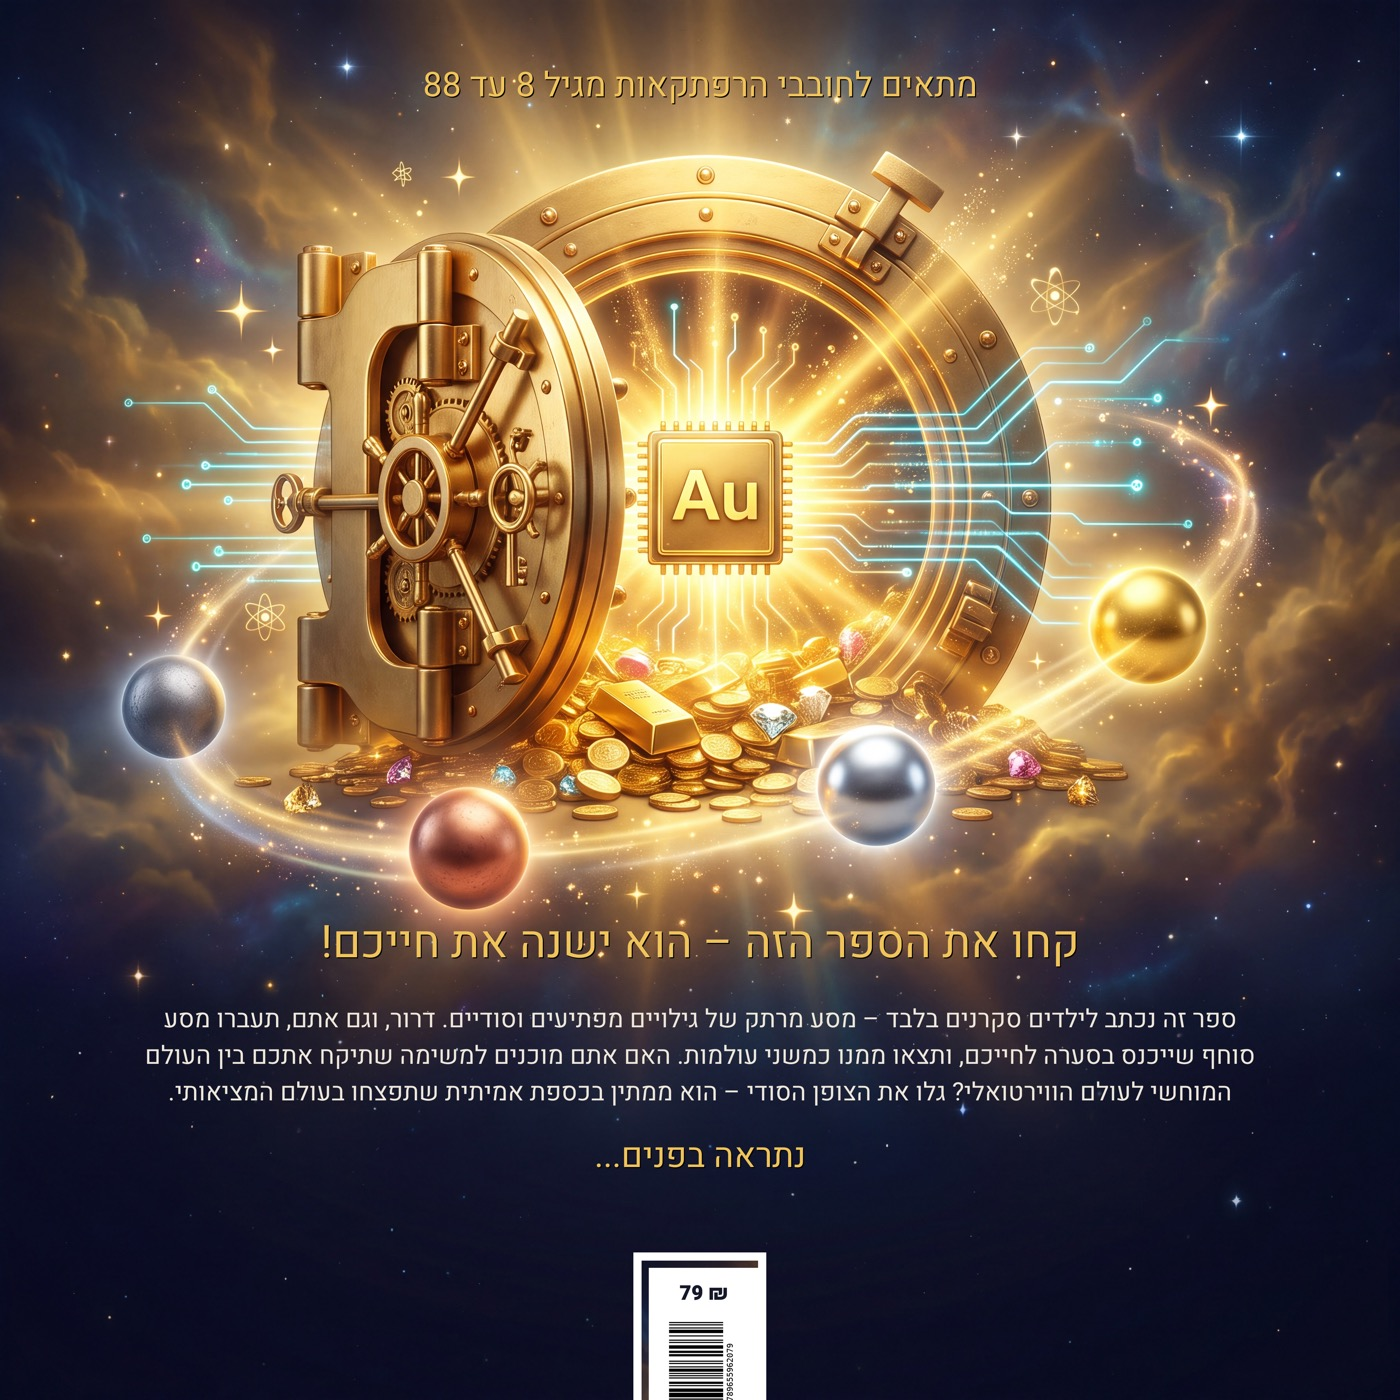
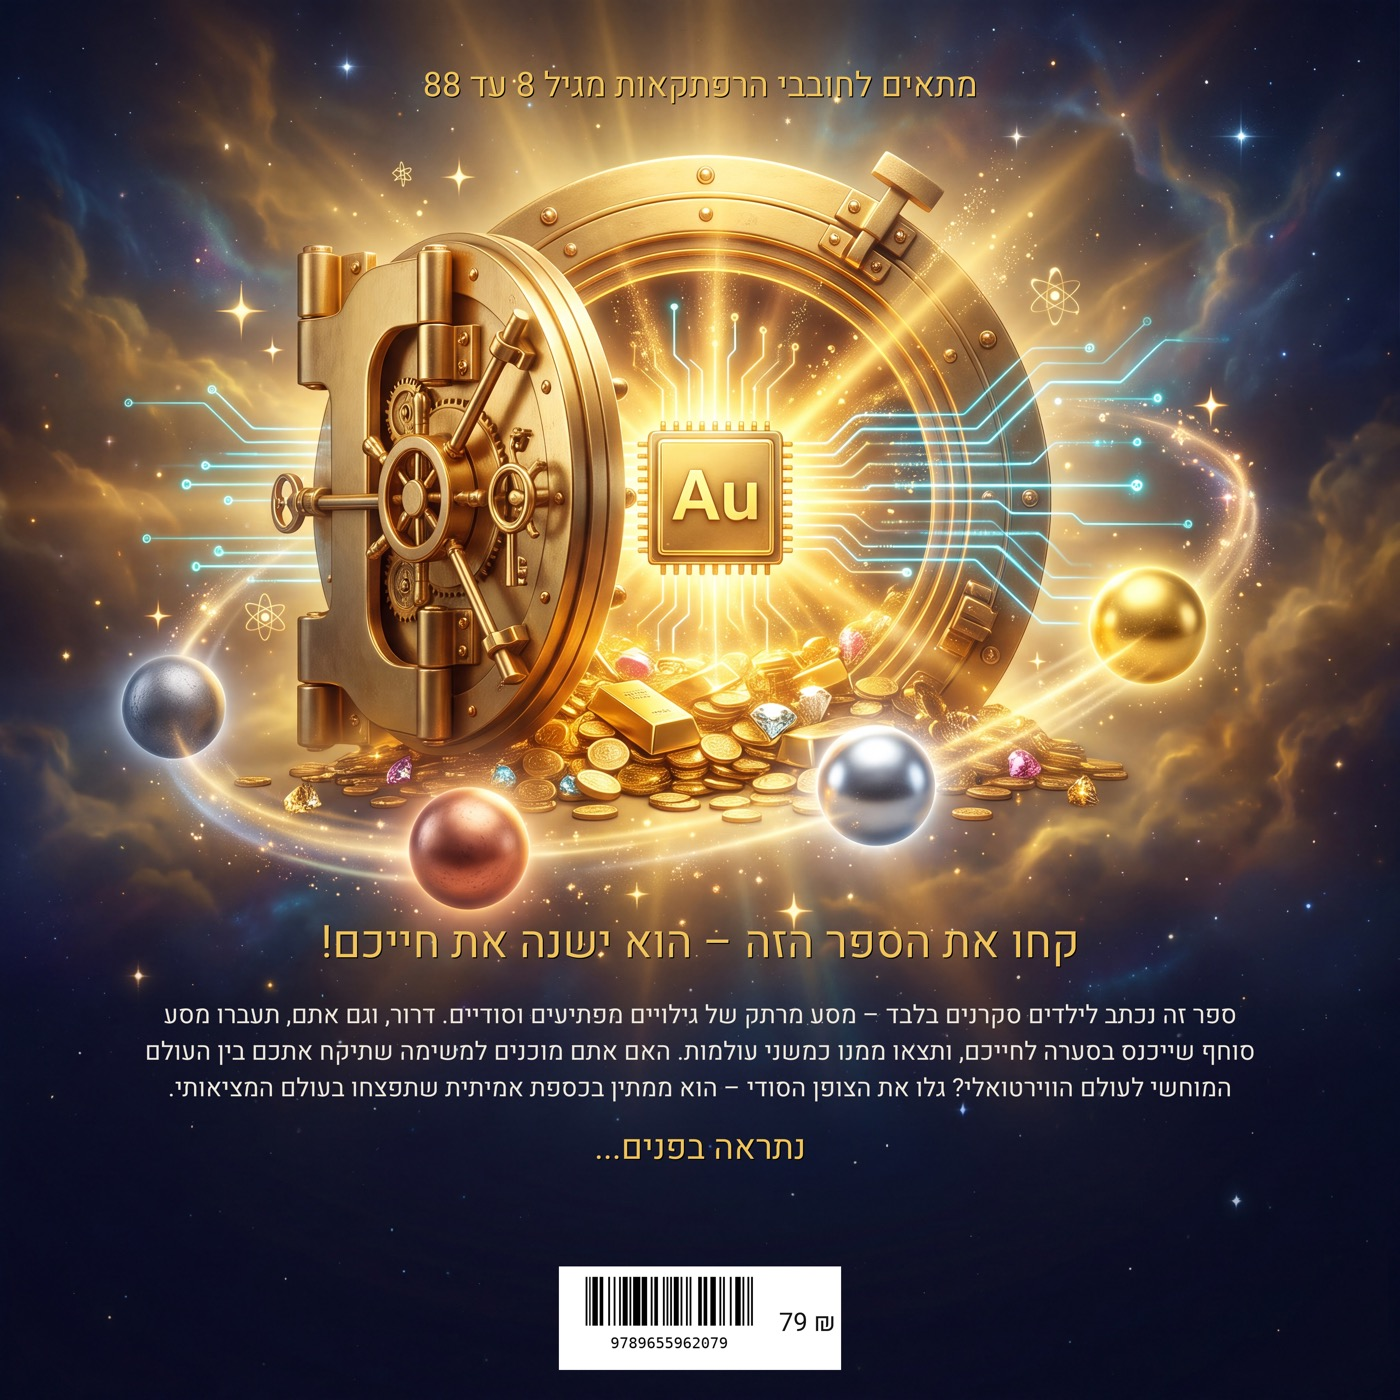
Back cover: flat barcode + price restored, no patch (clean rebuild from art)

Changed region(s): [[0.0921, 0.7064, 0.8907, 0.8293], [0.3993, 0.8907, 0.6143, 1.0]]

diff --git a/public/books/he-mtukan/index.html b/public/books/he-mtukan/index.html
@@ -85,7 +85,7 @@ body{margin:0;background:var(--bg);font-family:"Heebo","Arial Hebrew","Helvetica
           <div class="row"><span>מסת&quot;ב (ISBN)</span><b>978-965-596-207-9</b></div>
         </div>
         <div class="fpnotice">© כל הזכויות שמורות ליצחק קריספל, 2026. אין לשכפל, להעתיק, לצלם, להקליט, לתרגם, לאחסן במאגר מידע, לשדר או לקלוט בכל דרך או אמצעי אלקטרוני, אופטי או מכני — כל חלק שהוא מהחומר שבספר זה. שימוש מסחרי מכל סוג בחומר הכלול בספר זה אסור בהחלט אלא ברשות מפורשת ובכתב מהמחבר.</div>
-        <div class="fpversion">גרסה מעודכנת ליום שני 27/07/2026 בשעה 00:30</div>
+        <div class="fpversion">גרסה מעודכנת ליום שני 27/07/2026 בשעה 00:36</div>
         </div><div class="pnum">עמוד 3</div></div>
 <div class="page title"><div class="tinner"><div class="quote">&quot;אם הצלחתי לראות שונה, זה רק משום שהסתכלתי עמוק בתוך עצמי, כי הספר הזה הוא אני.&quot; דרור!</div></div><div class="pnum">עמוד 4</div></div>
 <div class="page text"><div class="tx"><p>&quot;כל ההתחלות קשות, אבל אחר כך מעניין יותר&quot; קוראים יקרים, הספר הזה נולד בשבילכם, והוא יישא אתכם למסע קסום בתוך המטריצה – אל סודות, צפנים וגילויים על העולם ועל המוח האנושי. בדרככם תעברו חוויות מרתקות כדי לעזור לדרור לפתח קוד ששמו &quot;זיכרון חיים&quot;.</p><p>התאזרו בסבלנות ובתושייה, בצעו את המשימות לפי הסדר, ורשמו את התשובות בדף המצורף בסוף הספר. המסע הקסום מתחיל עכשיו...</p></div><div class="pnum">עמוד 5</div></div>
